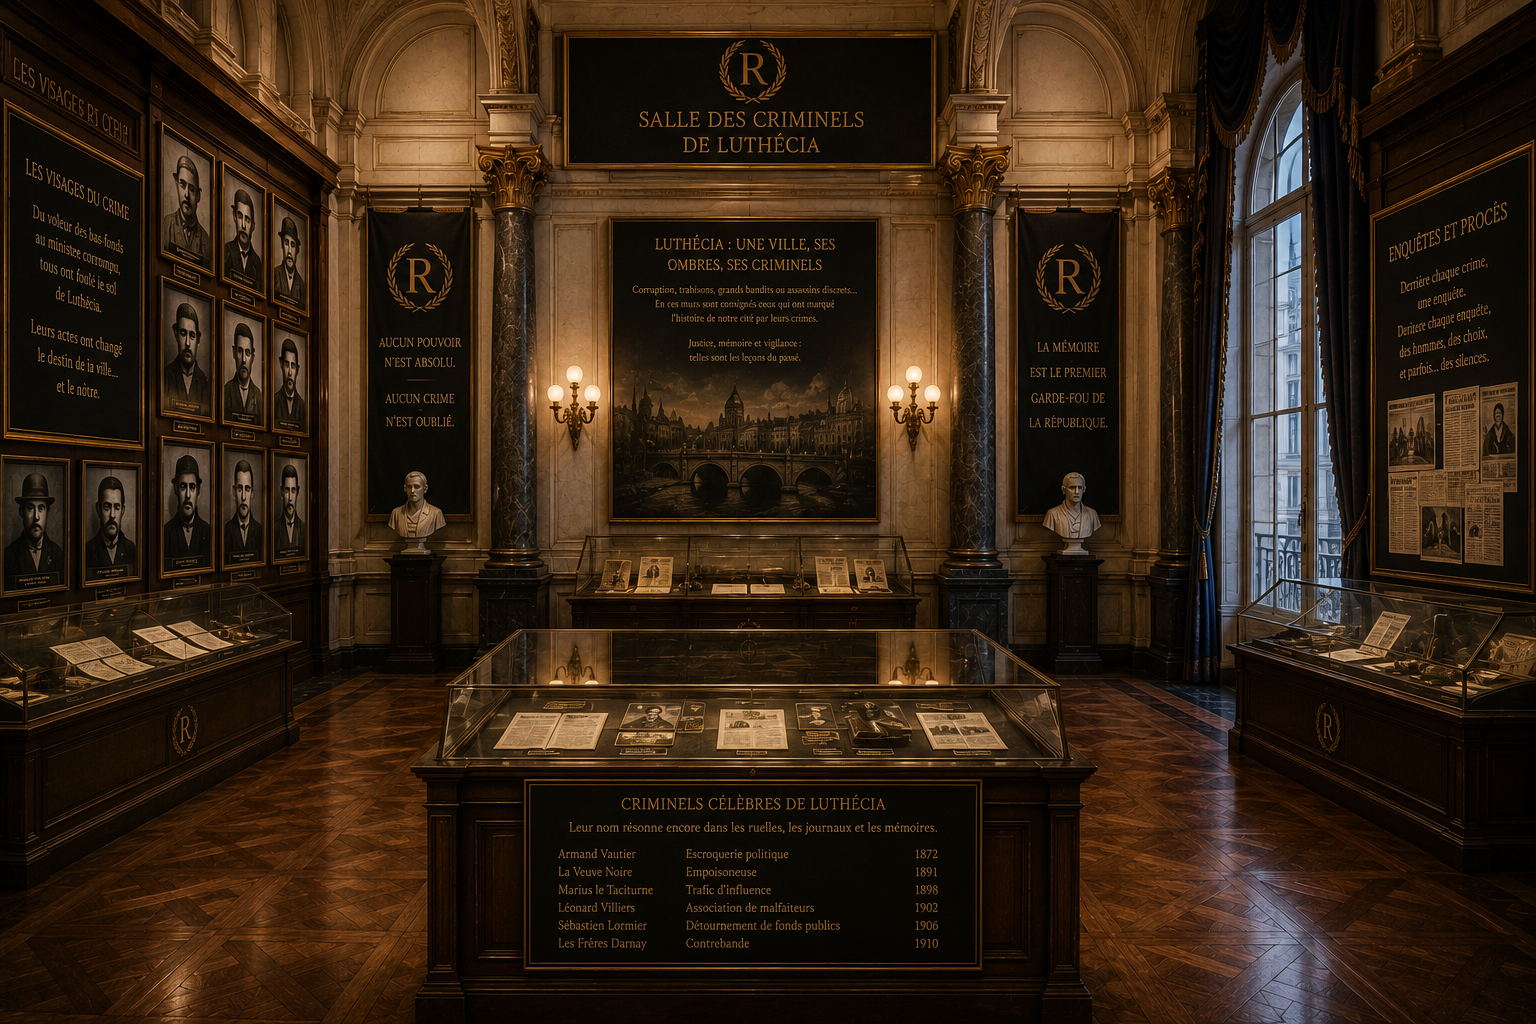
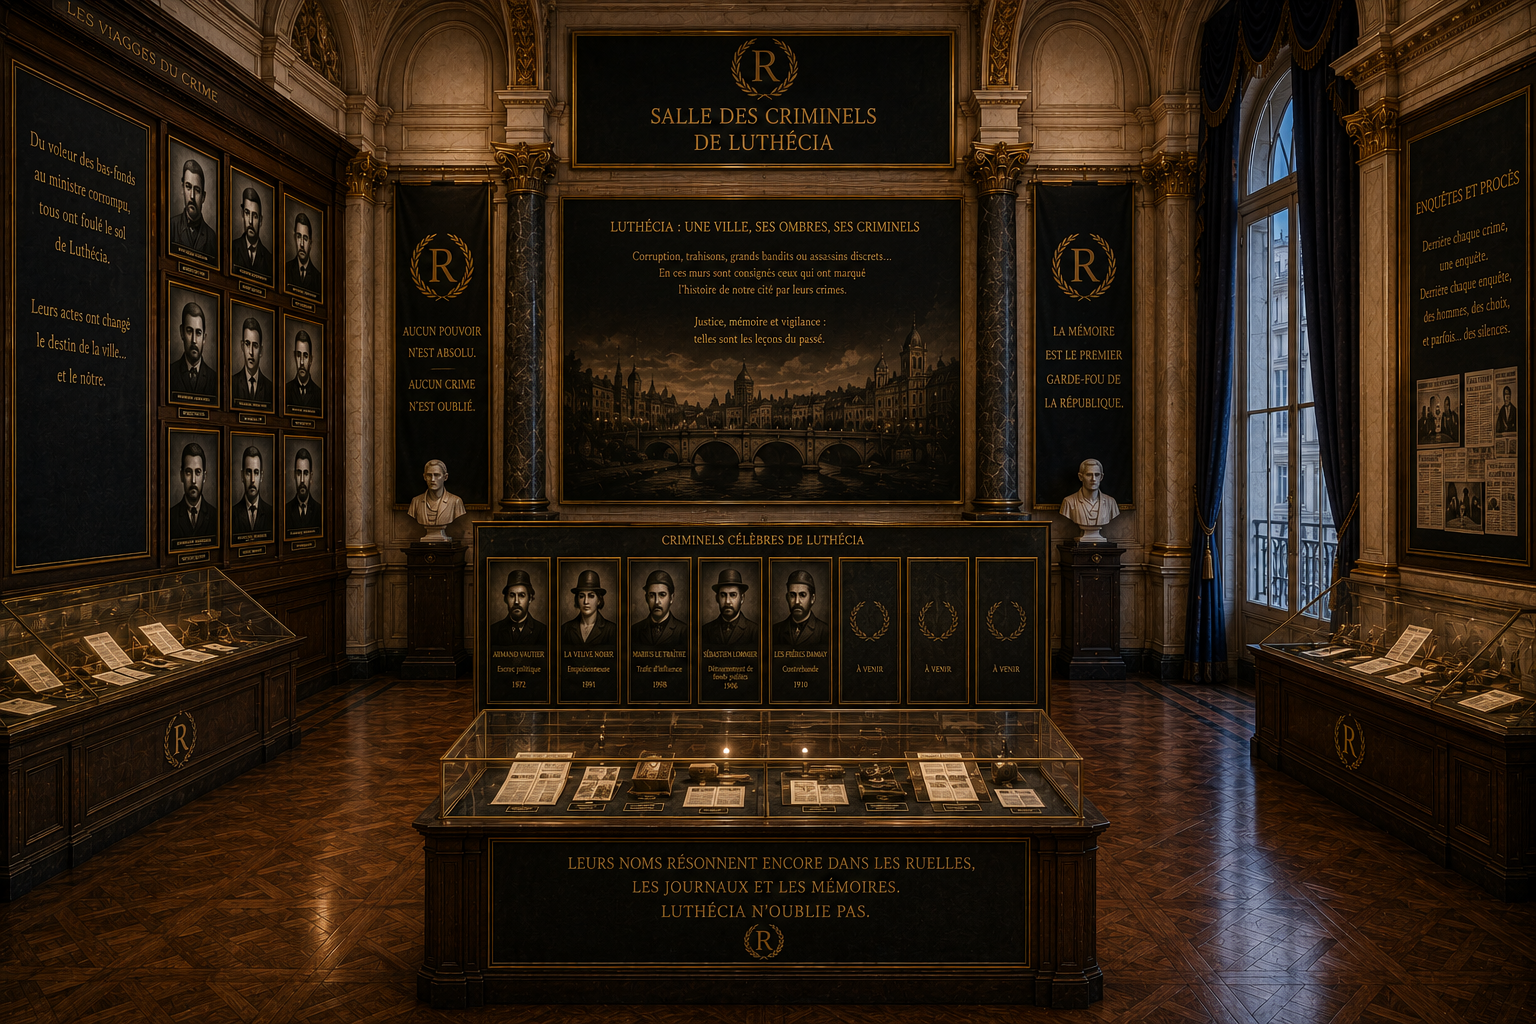
Remplacement images Maires/Criminels (place pour nouveaux joueurs) + ajout image Salle des Plumes - Musée de la Ville de Luthécia

diff --git a/data.js b/data.js
@@ -3515,6 +3515,7 @@ const BUILDINGS = {
         name: "Salle des Plumes",
         imageBg: "linear-gradient(135deg,#181018,#221824)",
         desc: "Les plus belles diatribes, lettres ouvertes et recits qui ont marque la vie forumiale de Luthecia. Contenu a venir.",
+        imageUrl: "https://raw.githubusercontent.com/FredJ74/res-publica/main/images/salle-plumes-musee-luthecia.png",
         persons: [],
         orders: []
       },

diff --git a/plateau.html b/plateau.html
@@ -467,7 +467,7 @@
   <div class="toast-sub" id="toast-sub"></div>
 </div>
 
-<script src="data.js?v=126"></script>
+<script src="data.js?v=127"></script>
 <script src="avatars.js?v=125"></script>
 <script src="world-map.js?v=125"></script>
 <script src="supabase.js?v=125"></script>

diff --git a/patch_salle_plumes.py b/patch_salle_plumes.py
@@ -1,0 +1,35 @@
+#!/usr/bin/env python3
+"""
+Patch data.js : ajoute imageUrl a la salle salle_plumes du Musee de la Ville de Luthecia.
+A executer a la racine du repo res-publica.
+"""
+
+PATH = "data.js"
+
+with open(PATH, "r", encoding="utf-8") as f:
+    content = f.read()
+
+old_plumes = """      salle_plumes: {
+        name: "Salle des Plumes",
+        imageBg: "linear-gradient(135deg,#181018,#221824)",
+        desc: "Les plus belles diatribes, lettres ouvertes et recits qui ont marque la vie forumiale de Luthecia. Contenu a venir.",
+        persons: [],
+        orders: []
+      },"""
+
+new_plumes = """      salle_plumes: {
+        name: "Salle des Plumes",
+        imageBg: "linear-gradient(135deg,#181018,#221824)",
+        desc: "Les plus belles diatribes, lettres ouvertes et recits qui ont marque la vie forumiale de Luthecia. Contenu a venir.",
+        imageUrl: "https://raw.githubusercontent.com/FredJ74/res-publica/main/images/salle-plumes-musee-luthecia.png",
+        persons: [],
+        orders: []
+      },"""
+
+assert content.count(old_plumes) == 1, f"salle_plumes : trouvé {content.count(old_plumes)} fois (attendu 1)"
+content = content.replace(old_plumes, new_plumes)
+
+with open(PATH, "w", encoding="utf-8") as f:
+    f.write(content)
+
+print("✅ Patch appliqué avec succès : imageUrl ajoutée pour salle_plumes (Musée de la Ville de Luthécia).")
